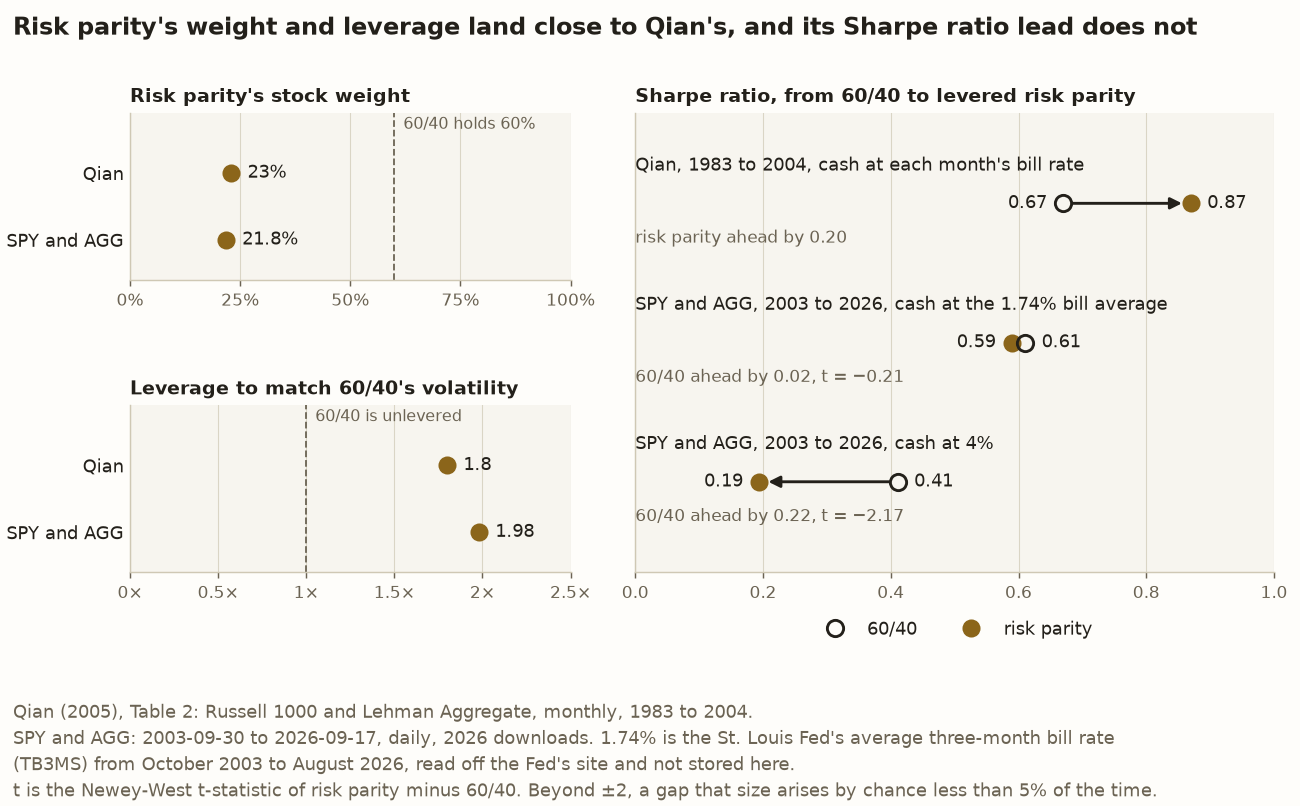
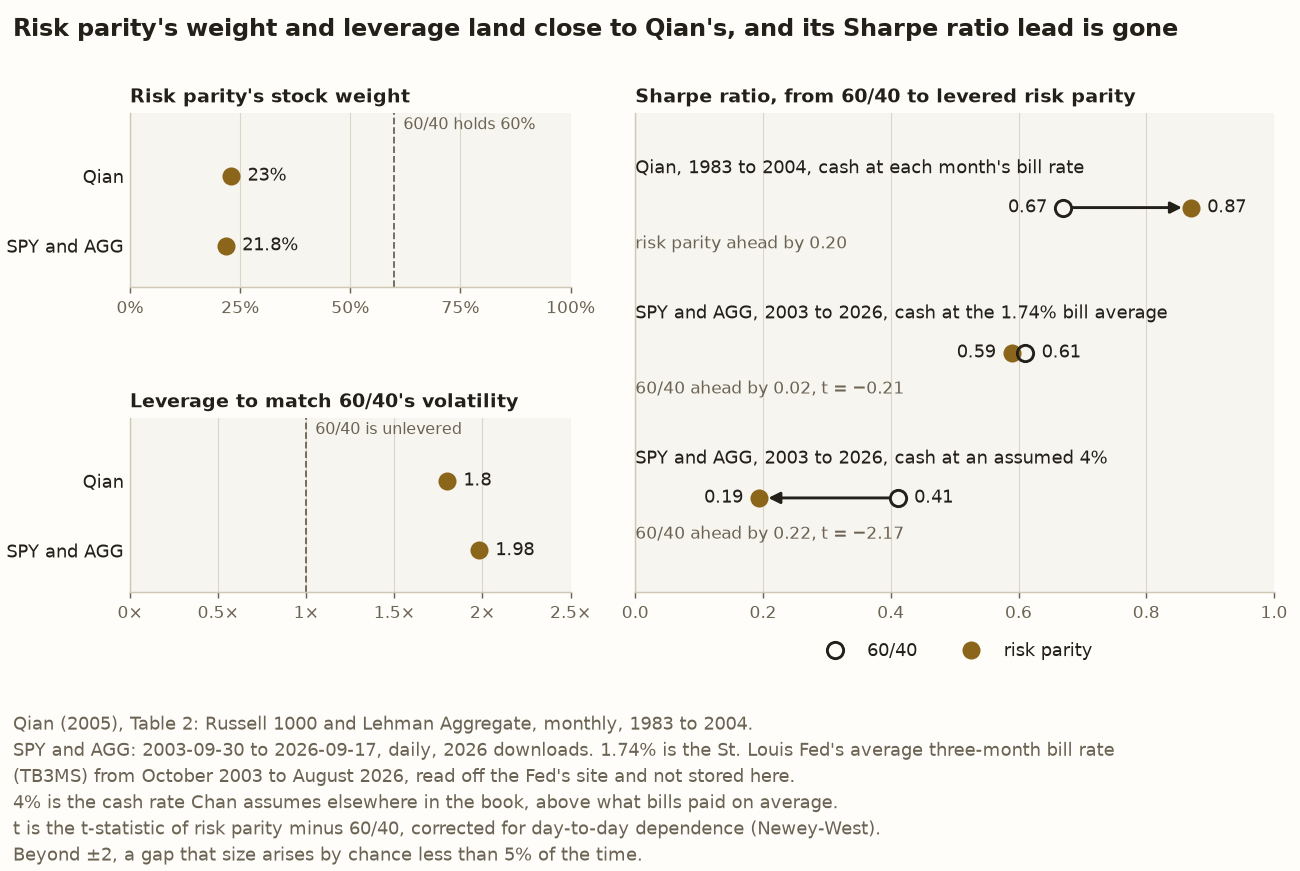
fix(figures): apply the review of the Lesson 1 figure
Three reviewers looked at the claim figure. What survived:

- The title's last clause had no verb of its own. It now ends "its
  Sharpe ratio lead is gone", which holds for both the near-tie at the
  bill average and the reversal at 4%.
- The 4% row now says the rate is assumed, and the note says where 4%
  comes from, since it is the row with the only t beyond 2.
- The note describes the Newey-West adjustment instead of only naming
  it, because the post explains it after the figure.
- The tests now hold the arrowhead direction, the side each value label
  sits on, the empty y ticks, the note line by line, and that no two
  pieces of text overlap. Each of those was a mutation the suite missed.
  Fifteen mutations now each fail a test.
- An axis test was renamed for what it holds, and the bill-average test
  says it checks agreement, not the rate.
- The module docstring keeps the first figure's four bars as a list.
- README no longer puts the SPY and AGG rows in Qian's data, and the
  design doc's row on scanning the rate says why the figure's ranking at
  the bill average is not a scan.

diff --git a/tests/test_risk_parity_figures.py b/tests/test_risk_parity_figures.py
@@ -261,6 +261,10 @@ class TestWhatTheClaimFigureCompares:
         assert (BOOK_WEIGHTS[0], BOOK_LEVERAGE) == (0.23, 1.8)
 
     def test_the_bill_average_is_the_one_the_post_quotes(self) -> None:
+        """This holds that the code and the post quote the same rate, not that
+        the rate is right. It was read off the St. Louis Fed's TB3MS series and
+        is not stored here, which README's third group of unpinned figures and
+        the figure's own note both say."""
         assert BILL_AVERAGE == 0.0174
 
     def test_this_runs_weight_and_leverage(self, claim_figure) -> None:
@@ -333,6 +337,7 @@ class TestTheWeightAndLeveragePanels:
             for dot, label in zip(dots, labels, strict=True):
                 assert label.xy == pytest.approx((dot.get_xdata()[0], dot.get_ydata()[0]))
                 assert label.get_ha() == "left"
+                assert label.xyann[0] > 0
 
     def test_the_reference_lines_mark_60_40(self, claim_figure) -> None:
         for ax, x in ((claim_figure.axes[0], 0.6), (claim_figure.axes[1], 1.0)):
@@ -342,7 +347,10 @@ class TestTheWeightAndLeveragePanels:
             label = [text for text in ax.texts if text.get_text().startswith("60/40")][0]
             assert label.xy[0] == x
 
-    def test_the_axes_start_at_zero_so_closeness_is_not_exaggerated(self, claim_figure) -> None:
+    def test_the_axes_start_at_zero_and_mark_60_40(self, claim_figure) -> None:
+        """A zero baseline alone would make any two values look close. The
+        60/40 line on each panel is what gives the gap between the dots a
+        scale, 1.2 points of weight against 37 to 60/40's 60%."""
         weight_ax, leverage_ax = claim_figure.axes[0], claim_figure.axes[1]
         assert weight_ax.get_xlim() == (0.0, 1.0)
         assert leverage_ax.get_xlim() == (0.0, 2.5)
@@ -392,7 +400,7 @@ class TestTheSharpePanel:
         assert [pair.label for pair in claim_figure.claim.pairs] == [
             "Qian, 1983 to 2004, cash at each month's bill rate",
             "SPY and AGG, 2003 to 2026, cash at the 1.74% bill average",
-            "SPY and AGG, 2003 to 2026, cash at 4%",
+            "SPY and AGG, 2003 to 2026, cash at an assumed 4%",
         ]
 
     def test_each_row_states_its_leader_gap_and_t(self, claim_figure) -> None:
@@ -423,6 +431,9 @@ class TestTheSharpePanel:
             right = pair.parity > pair.benchmark
             assert parity_label.get_ha() == ("left" if right else "right")
             assert bench_label.get_ha() == ("right" if right else "left")
+            for label in (parity_label, bench_label):
+                assert (label.xyann[0] > 0) == (label.get_ha() == "left")
+                assert label.xyann[0] != 0
 
     def test_arrows_run_from_60_40_to_risk_parity_where_there_is_room(self, claim_figure) -> None:
         """The 1.74% row's dots touch, so it draws no arrow, and the other two
@@ -437,10 +448,13 @@ class TestTheSharpePanel:
         assert [(a.xy, a.xyann) for a in arrows] == [
             ((p.parity, rows[p.label]), (p.benchmark, rows[p.label])) for p in pairs
         ]
+        # The head sits at xy, the risk parity end, so the arrow reads from 60/40.
+        assert all(a.arrowprops["arrowstyle"] == "-|>" for a in arrows)
 
     def test_the_axis_runs_from_zero_to_one(self, claim_figure) -> None:
         ax = claim_figure.axes[2]
         assert ax.get_xlim() == (0.0, 1.0)
+        assert ax.get_yticks().size == 0
         claim_figure.canvas.draw()
         assert [t.get_text() for t in ax.get_xticklabels()] == [
             "0.0",
@@ -463,7 +477,7 @@ class TestTheClaimFiguresText:
     def test_the_title_states_the_finding(self, claim_figure) -> None:
         assert claim_figure._suptitle.get_text() == (
             "Risk parity's weight and leverage land close to Qian's, "
-            "and its Sharpe ratio lead does not"
+            "and its Sharpe ratio lead is gone"
         )
 
     def test_the_panel_titles(self, claim_figure) -> None:
@@ -474,12 +488,19 @@ class TestTheClaimFiguresText:
         ]
 
     def test_the_note_names_both_sources_and_the_unstored_rate(self, claim_figure) -> None:
-        note = claim_figure.texts[-1].get_text()
-        assert "Qian (2005), Table 2" in note
-        assert "SPY and AGG: 2003-09-30 to 2026-09-17, daily, 2026 downloads." in note
-        assert "1.74% is the St. Louis Fed's average three-month bill rate" in note
-        assert "not stored here" in note
-        assert "Newey-West t-statistic of risk parity minus 60/40" in note
+        lines = claim_figure.texts[-1].get_text().split("\n")
+        assert lines == [
+            "Qian (2005), Table 2: Russell 1000 and Lehman Aggregate, monthly, 1983 to 2004.",
+            "SPY and AGG: 2003-09-30 to 2026-09-17, daily, 2026 downloads. 1.74% is the "
+            "St. Louis Fed's average three-month bill rate",
+            "(TB3MS) from October 2003 to August 2026, read off the Fed's site and "
+            "not stored here.",
+            "4% is the cash rate Chan assumes elsewhere in the book, above what bills "
+            "paid on average.",
+            "t is the t-statistic of risk parity minus 60/40, corrected for day-to-day dependence "
+            "(Newey-West).",
+            "Beyond ±2, a gap that size arises by chance less than 5% of the time.",
+        ]
 
     def test_every_text_fits_inside_the_figure(self, claim_figure) -> None:
         """The note ran off the right edge on an early draw."""
@@ -492,6 +513,31 @@ class TestTheClaimFiguresText:
         texts += [t for ax in claim_figure.axes for t in ax.texts if t.get_text()]
         right = max(t.get_window_extent(renderer).x1 for t in texts)
         assert right <= claim_figure.bbox.x1
+
+    def test_no_two_pieces_of_text_overlap(self, claim_figure) -> None:
+        """Mutation review squeezed the note onto the tick labels, and the
+        panels onto each other, with every other test still passing."""
+        from matplotlib.backends.backend_agg import FigureCanvasAgg
+
+        canvas = FigureCanvasAgg(claim_figure)
+        canvas.draw()
+        renderer = canvas.get_renderer()
+        pieces = [("suptitle", claim_figure._suptitle), ("note", claim_figure.texts[-1])]
+        for i, ax in enumerate(claim_figure.axes):
+            pieces.append((f"title {i}", ax.title))
+            pieces += [(f"text {i} {t.get_text()}", t) for t in ax.texts if t.get_text()]
+            ticks = [*ax.get_xticklabels(), *ax.get_yticklabels()]
+            pieces += [(f"tick {i} {t.get_text()}", t) for t in ticks if t.get_text()]
+        boxes = [(name, artist.get_window_extent(renderer)) for name, artist in pieces]
+        legend = claim_figure.axes[2].get_legend()
+        boxes.append(("legend", legend.get_window_extent(renderer)))
+        clashes = [
+            (a, b)
+            for i, (a, box_a) in enumerate(boxes)
+            for b, box_b in boxes[i + 1 :]
+            if box_a.overlaps(box_b)
+        ]
+        assert clashes == []
 
     def test_no_label_is_parsed_as_math(self, claim_figure) -> None:
         for text in [*claim_figure.texts, *(t for ax in claim_figure.axes for t in ax.texts)]:

diff --git a/src/chan/risk_parity_figures.py b/src/chan/risk_parity_figures.py
@@ -1,15 +1,20 @@
 """Two figures for the risk parity post, drawn from the committed SPY and AGG vintages.
 
 1. :func:`make_risk_split_figure` draws Qian's premise, that 60/40 splits
-   capital 60 to 40 and risk nowhere near it, on the full common span as four
-   bars: 60/40's capital split, 60/40's risk split, risk parity's capital split
-   and risk parity's risk split.
+   capital 60 to 40 and risk nowhere near it, on the full common span. It has
+   four bars.
+
+   1. 60/40's capital split.
+   2. 60/40's risk split, where the equity leg carries nearly all of it.
+   3. Risk parity's capital split, which moves most of the capital into bonds.
+   4. Risk parity's risk split, which is even.
+
 2. :func:`make_claim_figure` draws Lesson 1 of
    ``blog/risk-parity-against-60-40.md``. Risk parity's stock weight and
    leverage land close to Qian's, while the Sharpe ratio comparison he printed
    them to support does not. Its Sharpe panel has three rows: Qian's own pair,
    then this run's pair at the average bill rate and at the 4 percent rate the
-   rest of the post uses.
+   rest of the post assumes.
 
 Every number this run measured comes from :mod:`chan.risk_parity`, so a figure
 can only be wrong by drawing the wrong thing, which
@@ -246,7 +251,7 @@ def claim(result: WindowResult | None = None) -> Claim:
                 at_bills.t_newey_west,
             ),
             SharpePair(
-                f"{STOCK} and {BOND}, 2003 to 2026, cash at {RISK_FREE:.0%}",
+                f"{STOCK} and {BOND}, 2003 to 2026, cash at an assumed {RISK_FREE:.0%}",
                 at_rate.sharpe_benchmark,
                 at_rate.sharpe_parity,
                 at_rate.t_newey_west,
@@ -318,7 +323,7 @@ def make_claim_figure(out: Path | None = None, result: WindowResult | None = Non
     """Weight and leverage beside Qian's, then the Sharpe ratios they were meant to win."""
     drawn = claim(result)
 
-    fig = Figure(figsize=(10, 6.2), dpi=130)
+    fig = Figure(figsize=(10, 6.7), dpi=130)
     fig.patch.set_facecolor(SURFACE)
     grid = fig.add_gridspec(2, 2, width_ratios=(1, 1.45), hspace=0.75, wspace=0.12)
     weight_ax = fig.add_subplot(grid[0, 0])
@@ -405,16 +410,17 @@ def make_claim_figure(out: Path | None = None, result: WindowResult | None = Non
 
     _title(
         fig,
-        "Risk parity's weight and leverage land close to Qian's, "
-        "and its Sharpe ratio lead does not",
+        "Risk parity's weight and leverage land close to Qian's, and its Sharpe ratio lead is gone",
         "Qian (2005), Table 2: Russell 1000 and Lehman Aggregate, monthly, 1983 to 2004.\n"
         f"{STOCK} and {BOND}: {drawn.start} to {drawn.end}, daily, 2026 downloads. "
         f"{BILL_AVERAGE:.2%} is the St. Louis Fed's average three-month bill rate\n"
         "(TB3MS) from October 2003 to August 2026, read off the Fed's site and not stored here.\n"
-        "t is the Newey-West t-statistic of risk parity minus 60/40. Beyond ±2, a gap that size "
-        "arises by chance less than 5% of the time.",
+        f"{RISK_FREE:.0%} is the cash rate Chan assumes elsewhere in the book, above what bills "
+        "paid on average.\n"
+        "t is the t-statistic of risk parity minus 60/40, corrected for day-to-day dependence "
+        "(Newey-West).\nBeyond ±2, a gap that size arises by chance less than 5% of the time.",
     )
-    fig.subplots_adjust(left=0.1, right=0.98, top=0.86, bottom=0.29)
+    fig.subplots_adjust(left=0.1, right=0.98, top=0.87, bottom=0.32)
     fig.claim = drawn
     return _save(fig, out, CLAIM_FIGURE)
 

diff --git a/docs/design.md b/docs/design.md
@@ -547,6 +547,6 @@ change that cuts it.
 | A Treasury-bill series for the risk-free rate in Chan's Kelly example | It would need a second vintage and would move two inputs at once, which is what makes a gap unattributable to either. The rate stays the book's 4 percent, held as a constant the source supplies, and the report says it is his constant applied to whatever window was read rather than a rate anyone paid. [Issue 14](https://github.com/l3a0/quantitative-trading/issues/14) is where this was decided. |
 | A second series to check the 20.47 percent Black Monday loss against | It would need an S&P 500 index vintage, which is a different symbol and a different deliverable. SPY's first bar is 1993-01-29 and the loss is from 1987-10-19, so no SPY vintage of any span can check it. It enters the replication as a constant the book supplies, named as such, with the worst loss the window actually holds reported beside it. |
 | TLT as the bond leg of the risk-parity replication | Cut by the owner on 2026-09-18. Qian's bond leg is an aggregate bond exposure and TLT is a twenty-plus-year Treasury fund, whose volatility sits far closer to equities' than an aggregate index's does. The derived weights could not then land near his 23-77, and the cause would be the instrument rather than the method, which is a verdict about a proxy rather than about the claim. AGG replaced it, chosen in writing before anything was downloaded. The ruling rested on that argument alone until Qian's own paper was found and committed at [research/papers](../research/papers/README.md), which describes the Lehman Aggregate as roughly 6,000 bonds with an approximate average maturity of ten years. Reading a maturity as a duration is this repo's step rather than his, because the paper never says duration, but an index his argument rests on that averages ten years is intermediate rather than long. So the cut stands on a figure the source states and not only on reasoning about it. Nothing inherits the choice: [issue 136](https://github.com/l3a0/quantitative-trading/issues/136) reproduces Chan's fixed-income pair, where a long-duration leg is the faithful stand-in, and it carries its own written commitment to TLT. |
-| Scanning the risk-free rate beside the 4 percent the risk-parity run declares | The rate moves the ranking and the direction is not in doubt, so a scan would spend the sample on a search nothing recorded, which is what the declared windows exist to prevent. The Sharpe difference moves with the rate by `1 / vol(60/40)` less `1 / vol(risk parity)`, which is exact and is pinned in [tests/test_risk_parity.py](../tests/test_risk_parity.py), so the report states the direction and computes no second ranking. `--risk-free` still moves it for a reader who wants to, and a run that moves it is off the reproduction the same way a new window is. Because the difference and its robust t are both linear in the rate, the rate at which the two Sharpe ratios tie and the rate at which the t reaches −2 follow in closed form from the declared ranking. The suite pins both, along with the t at a rate of zero. Quoting them is not a scan, because nothing is chosen from them and the report still prints the ranking at the declared rate only. |
+| Scanning the risk-free rate beside the 4 percent the risk-parity run declares | The rate moves the ranking and the direction is not in doubt, so a scan would spend the sample on a search nothing recorded, which is what the declared windows exist to prevent. The Sharpe difference moves with the rate by `1 / vol(60/40)` less `1 / vol(risk parity)`, which is exact and is pinned in [tests/test_risk_parity.py](../tests/test_risk_parity.py), so the report states the direction and computes no second ranking. `--risk-free` still moves it for a reader who wants to, and a run that moves it is off the reproduction the same way a new window is. Because the difference and its robust t are both linear in the rate, the rate at which the two Sharpe ratios tie and the rate at which the t reaches −2 follow in closed form from the declared ranking. The suite pins both, along with the t at a rate of zero. Quoting them is not a scan, because nothing is chosen from them and the report still prints the ranking at the declared rate only. The post's Lesson 1 figure computes one more ranking, at the 1.74% average three-month bill rate, through `full_span_ranking` in [src/chan/risk_parity_figures.py](../src/chan/risk_parity_figures.py). That is not a scan either. The rate is the one cash actually paid on average over the span, which is the like-for-like comparison with Qian's bill-rate figures, and it was fixed before the ranking was computed rather than picked from a range of rates. |
 | Refitting the risk-parity weights inside each sub-window before ranking it | 60/40 is fixed by definition and never sees the data. Weights refitted inside a window have seen every day they are then judged on, so a ranking built that way compares a fixed allocation against a fitted one and risk parity wins some of that for a reason the book is not claiming. Measured on the rising-rates window, refitting moves the ranking in risk parity's favour, which is the direction that would have flattered the claim under test. The decomposition is still computed in-window, because what it answers is what balanced risk looked like in that regime, and it carries no ranking. |
 | Giving `record_vintage` a saved-date parameter, so a column lifted from one of Chan's workbooks could be recorded rather than typed | It is the other way to make [issue 124](https://github.com/l3a0/quantitative-trading/issues/124)'s `spy_chan.csv` hold, and it is cut. `vintage_filename` takes `download_date` as a required keyword and ends every name it builds with `_dl{download_date}.csv`, so a recorder able to write a saved date needs a second naming convention, and `the_recorded_entries_name_themselves` compares a path against that join. The row above already says a check asserting the naming convention moves when the convention does, so this route pays that price to generate lines a person types once per workbook column. The route that shipped moves no predicate and one count, measured. The checks read a set of hand-written paths, so `spy_chan.csv` joining that set turns them on for it, and the only assertion that moved is `len(resolved) == 8` becoming `== 9` in [tests/test_series.py](../tests/test_series.py), which counts that same set. Nothing executable in `src/` moved, and the changes there are prose. What is given up is that a hand-typed line has no generator to check it against, and what replaces the generator is the identity pinned in [tests/support/committed_vintages.py](../tests/support/committed_vintages.py) and the `Ticker,` header row the file's own bytes carry, which names the series and is derived rather than restated. [Issue 138](https://github.com/l3a0/quantitative-trading/issues/138) reads this vintage and its body assumed this outcome. |

diff --git a/blog/risk-parity-against-60-40.md b/blog/risk-parity-against-60-40.md
@@ -71,7 +71,7 @@ The allocation is about a point off Qian’s and the leverage about 0.2 above hi
 
 Qian offered his weights and leverage in support of the Sharpe ratio claim, and on SPY and AGG that claim fails. At the 4% cash rate, 60/40 earns 0.41 and levered risk parity 0.19, a gap of 0.22 against risk parity. In mean returns above cash, 60/40 earns 2.46 percentage points a year more at the same volatility.
 
-![Three panels comparing Qian’s figures with this replication’s. Risk parity’s stock weight is 23% for Qian and 21.8% for SPY and AGG, both far below 60/40’s 60%. The leverage that matches 60/40’s volatility is 1.8 for Qian and 1.98 for SPY and AGG. The Sharpe ratios of 60/40 and of levered risk parity are 0.67 and 0.87 for Qian, 0.61 and 0.59 for SPY and AGG at the 1.74% average bill rate, and 0.41 and 0.19 at a 4% cash rate.](../docs/figures/risk_parity_against_qian.png)
+![Three panels comparing Qian’s figures with this replication’s. Risk parity’s stock weight is 23% for Qian and 21.8% for SPY and AGG, both far below 60/40’s 60%. The leverage that matches 60/40’s volatility is 1.8 for Qian and 1.98 for SPY and AGG. The Sharpe ratios of 60/40 and of levered risk parity are 0.67 and 0.87 for Qian, 0.61 and 0.59 for SPY and AGG at the 1.74% average bill rate, and 0.41 and 0.19 at an assumed 4% cash rate.](../docs/figures/risk_parity_against_qian.png)
 
 *The weight and leverage land close to Qian’s. Risk parity led 60/40 by 0.20 in his data, trails by 0.02 at the 1.74% bills paid on average, and trails by 0.22 at 4%.*
 

diff --git a/README.md b/README.md
@@ -514,8 +514,8 @@ Both figures are drawn from the committed SPY and AGG vintages by
 
 1. The capital and risk shares of 60/40 and risk parity on the full span.
 2. Risk parity's stock weight and leverage beside Qian's, and the Sharpe ratios
-   of 60/40 and levered risk parity in his data, at the 1.74% bill average and
-   at 4%, for Lesson 1. Qian's figures are drawn as Table 2 of his paper prints
+   of 60/40 and levered risk parity in his data and on SPY and AGG at the 1.74%
+   bill average and at 4%, for Lesson 1. Qian's figures are drawn as Table 2 of his paper prints
    them.
 
 ```bash
